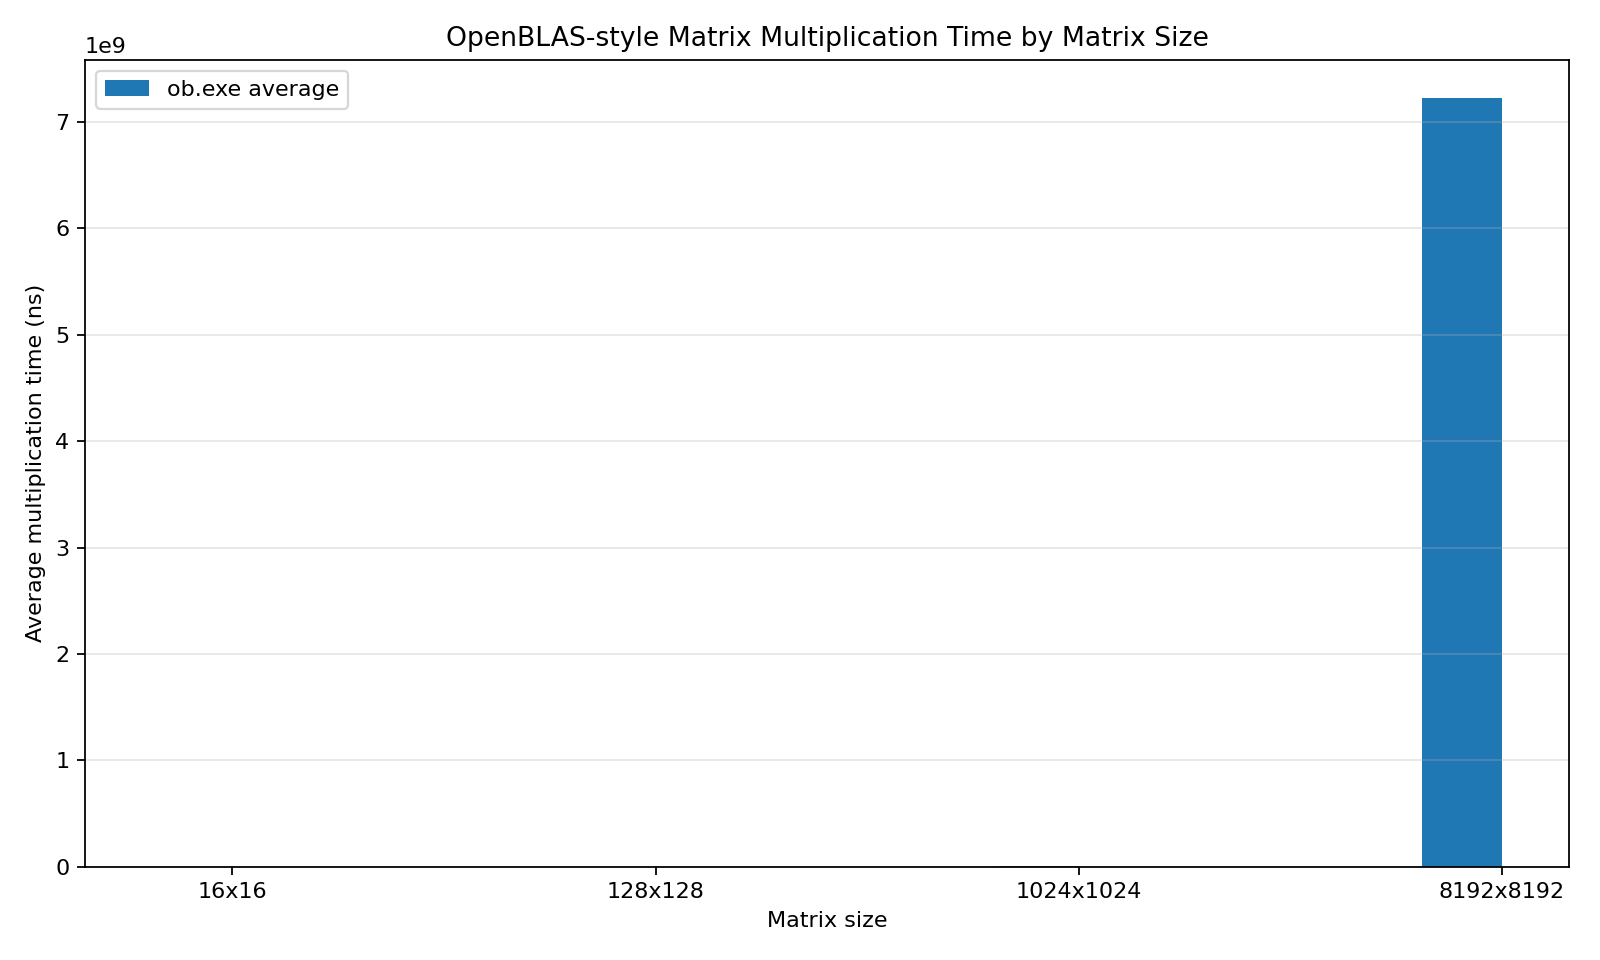
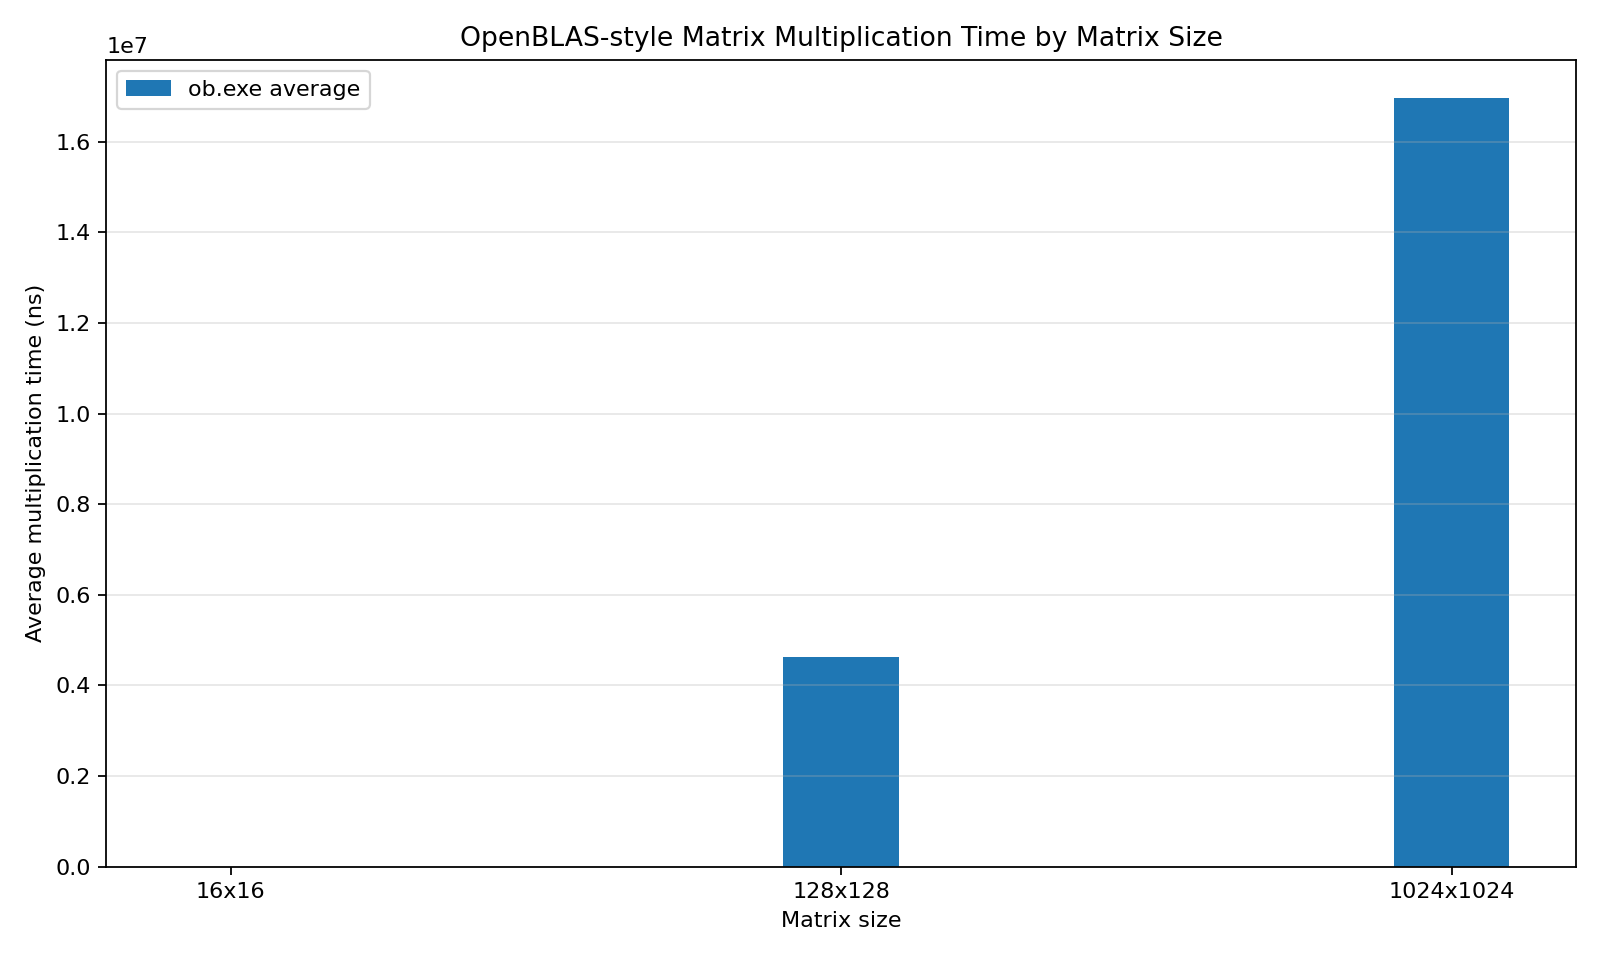
update

diff --git a/run_openblas_benchmark.py b/run_openblas_benchmark.py
@@ -22,7 +22,7 @@ RESULT_CSV = RESULT_DIR / "openblas_results.csv"
 AVERAGE_CSV = RESULT_DIR / "openblas_averages.csv"
 PLOT_FILE = RESULT_DIR / "openblas_plot.png"
 
-SIZES = [16, 128, 1024, 8192]
+SIZES = [16, 128, 1024]
 RUNS_PER_SIZE = 10
 
 DURATION_PATTERNS = (
@@ -100,7 +100,7 @@ def run_cycle(size: int, rep: int, generator_exe: Path, ob_exe: Path) -> dict[st
 
 def compute_averages(rows: list[dict[str, int]]) -> list[dict[str, float]]:
     grouped: dict[int, dict[str, int]] = {
-        size: {"count": 0, "ob_total": 0, "ob3_total": 0} for size in SIZES
+        size: {"count": 0, "ob_total": 0} for size in SIZES
     }
 
     for row in rows:
@@ -147,7 +147,7 @@ def draw_grouped_bar_chart(averages: list[dict[str, float]]) -> None:
     group_step = 1.8
     bar_width = 0.34
     x_centers = [index * group_step for index in range(len(averages))]
-    ob_positions = [x - bar_width / 2 for x in x_centers]
+    ob_positions = [x for x in x_centers]
 
     plt.figure(figsize=(10, 6))
     plt.bar(ob_positions, ob_values, width=bar_width, label="ob.exe average")

diff --git a/obmultiplier.c b/obmultiplier.c
@@ -1,3 +1,4 @@
+//gcc -O3 -I. obmultiplier.c -o ob -L. -l:libopenblas.so.0 -lpthread
 /*
  * mygemm : a minimal program that reads two matrices from an input file
  *          and computes C = A * B using OpenBLAS (cblas_dgemm), with timing.

diff --git a/common.h b/common.h
@@ -134,7 +134,7 @@ extern "C" {
 #define GOTO_ATOM ATOM
 #undef  ATOM
 #endif
-#include <windows.h>
+//#include <windows.h>
 #include <math.h>
 #ifdef  GOTO_ATOM
 #define ATOM GOTO_ATOM
